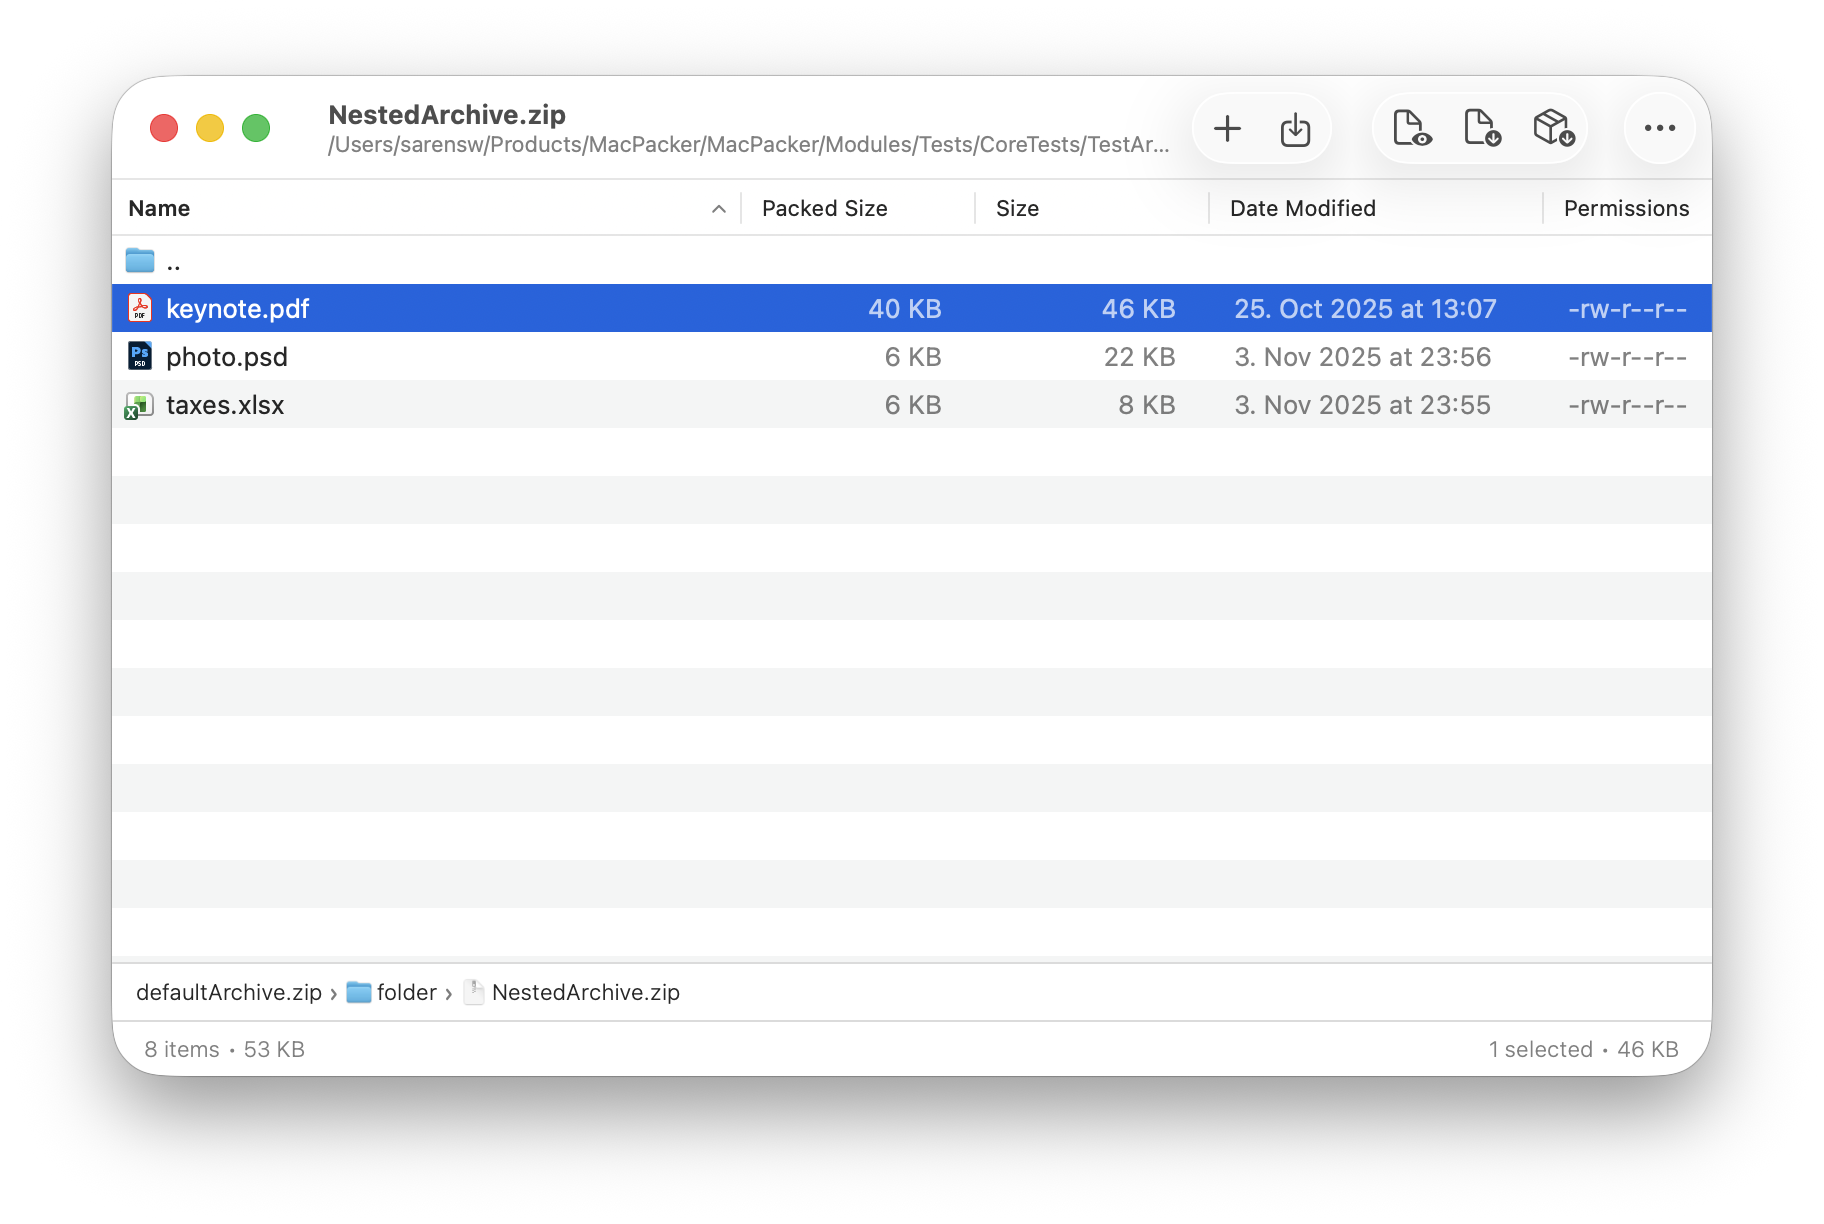
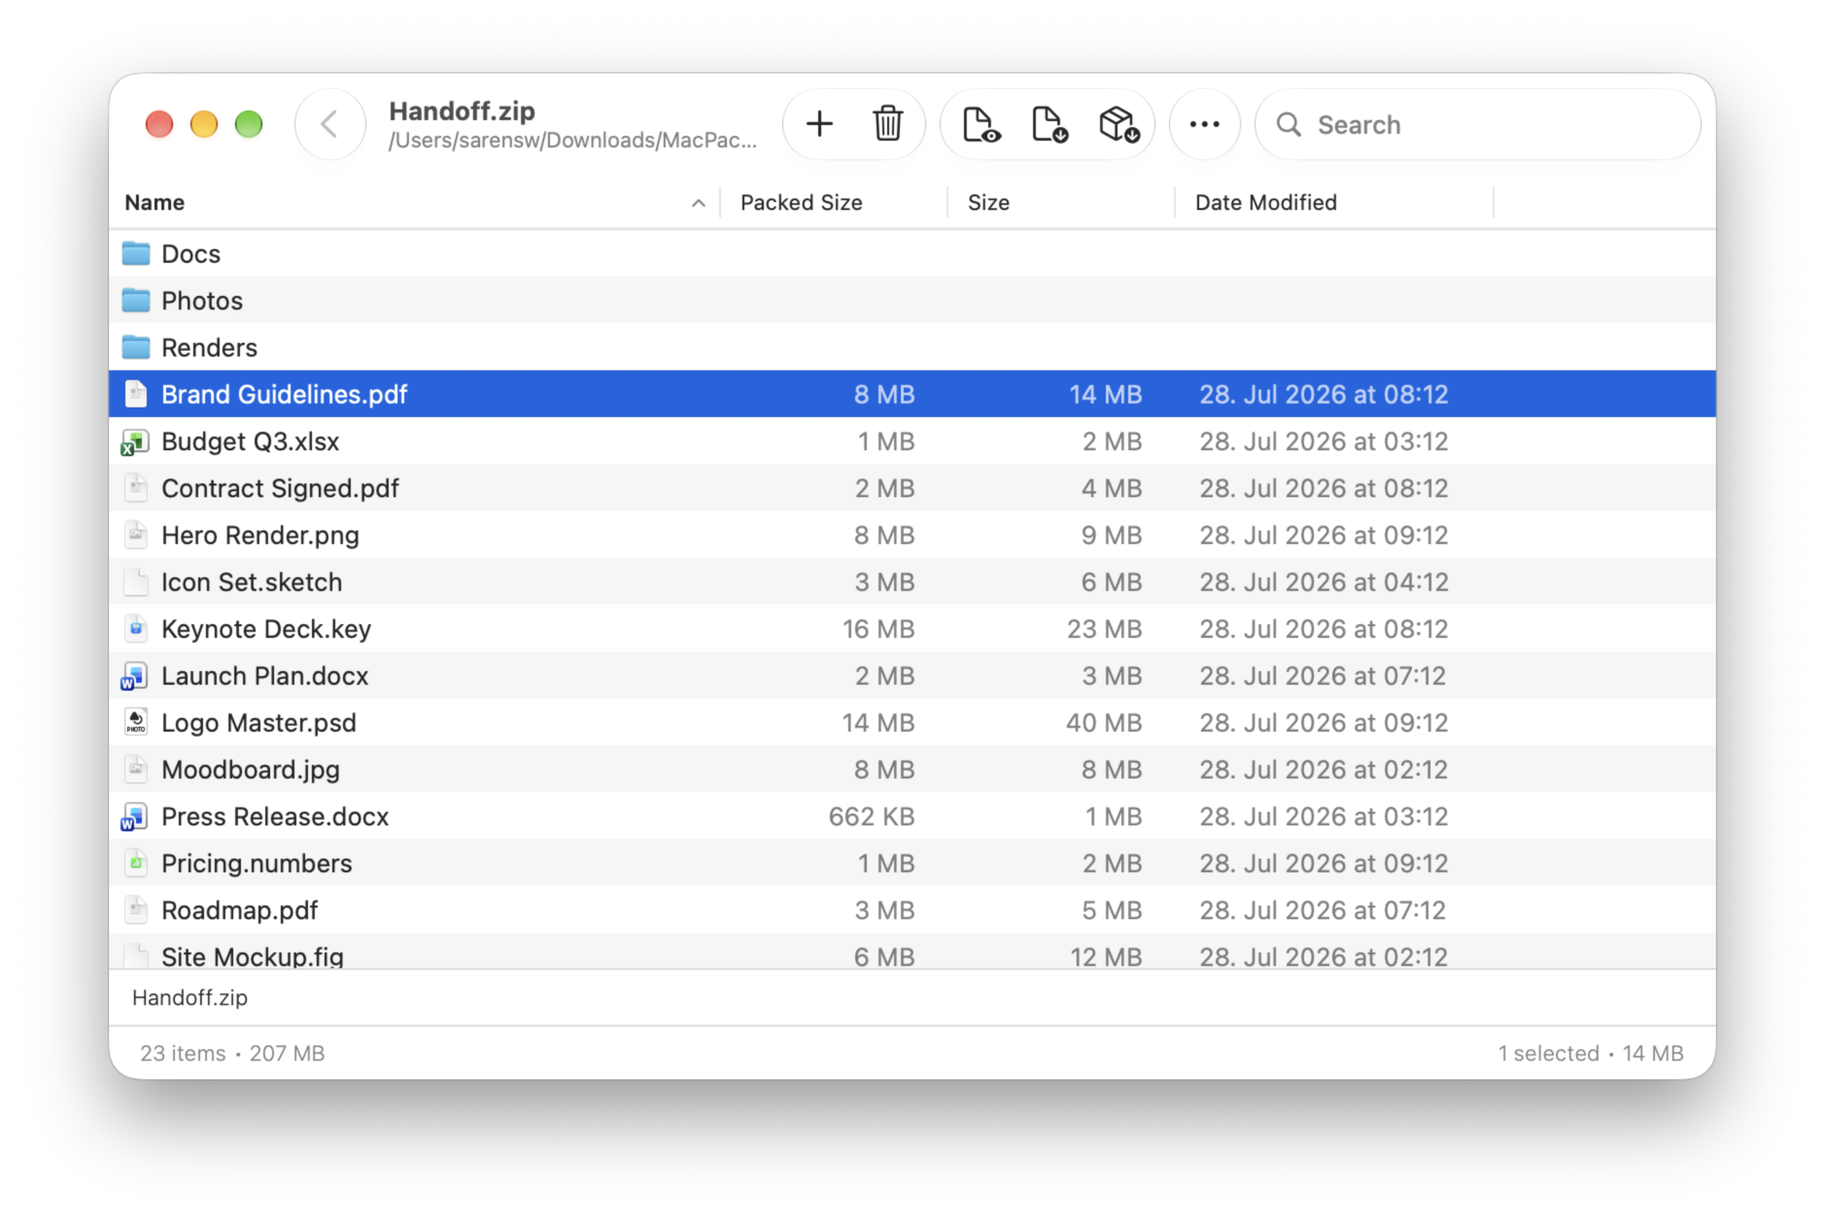
New link preview card per locale, and SEO fixes (#18)
* Replace the link preview with a card per locale

The old og.png was a bare screenshot of the old UI, with a development
path in the title bar, and the same English card served the Chinese pages.

- public/og.jpg (en) and public/og-zh.jpg (zh): icon, name, the home
  page's claim and lede, and the Handoff.zip window on the orange stage,
  laid out like the home page hero. JPEG, about 135 KB each.
- The cards are rendered from press-kit/og.beastproj with FrameBeast;
  CLAUDE.md says how to rebuild them.
- ogImage(locale) in lib/seo.ts picks the card for OpenGraph, Twitter and
  the JSON-LD image on every page.
- public/hero.png (the JSON-LD screenshot) is the new Handoff.zip capture
  from #16, so it no longer shows the development path either.

* Fix "a ISO" in the guide titles, link the pages in llms.txt

- Eight format guides were titled "How to Extract Files from a ISO / a
  NTFS / a XZ ..." in the title tag, the H1 and the Article JSON-LD.
  They now take "an" where the name is read out letter by letter.
- llms.txt listed its key pages as bare URLs. The llms.txt format wants
  markdown links in its lists, and Lighthouse's llms.txt check failed
  with "File does not appear to contain any links".

diff --git a/lib/llms.ts b/lib/llms.ts
@@ -74,17 +74,17 @@ ${formatLines}
 
 ## Key pages
 
-- Home (English): ${SITE_URL}/en
-- Home (Chinese): ${SITE_URL}/zh
-- Docs index: ${SITE_URL}/en/docs
-- Archiver comparison: ${SITE_URL}/en/compare (also /zh/compare) — MacPacker vs 7-Zip vs The Unarchiver vs Keka vs BetterZip across 69 formats and 9 capabilities, read/write per format
+- [Home (English)](${SITE_URL}/en)
+- [Home (Chinese)](${SITE_URL}/zh)
+- [Docs index](${SITE_URL}/en/docs)
+- [Archiver comparison](${SITE_URL}/en/compare): MacPacker vs 7-Zip vs The Unarchiver vs Keka vs BetterZip across 69 formats and 9 capabilities, read/write per format (also /zh/compare)
 - Head-to-head comparisons: ${SITE_URL}/en/compare/{slug} where slug is keka, the-unarchiver, betterzip or 7-zip — MacPacker against one app, narrowed to the formats at least one of the two handles
 - Per-format guides: ${SITE_URL}/en/docs/{slug} (e.g. /zip, /rar, /7z, /dmg, /iso)
-- Privacy policy: ${SITE_URL}/en/privacy
-- Press / media kit: ${SITE_URL}/en/press (also /zh/press) — boilerplate, fact sheet, brand assets, downloadable kit
-- Changelog: ${SITE_URL}/en/changelog
-- Live changelog source: https://macpacker-releases.s3.eu-central-1.amazonaws.com/Changelog.json
-- Sparkle appcast: https://macpacker-releases.s3.eu-central-1.amazonaws.com/appcast.xml
+- [Privacy policy](${SITE_URL}/en/privacy)
+- [Press / media kit](${SITE_URL}/en/press): boilerplate, fact sheet, brand assets, downloadable kit (also /zh/press)
+- [Changelog](${SITE_URL}/en/changelog)
+- [Live changelog source](https://macpacker-releases.s3.eu-central-1.amazonaws.com/Changelog.json)
+- [Sparkle appcast](https://macpacker-releases.s3.eu-central-1.amazonaws.com/appcast.xml)
 
 ## Languages
 

diff --git a/lib/formats.ts b/lib/formats.ts
@@ -46,20 +46,25 @@ export interface FormatEntry {
 
 // ─── HELPERS ───
 
+// "an ISO", "an NTFS": names read out letter by letter that start with a vowel sound.
+function article(name: string): string {
+  return /^(ARJ|ISO|LHA|LZ|NTFS|XZ)/.test(name) ? "an" : "a";
+}
+
 function archiveTitle(name: string): string {
-  return `How to Extract Files from a ${name} Archive on macOS`;
+  return `How to Extract Files from ${article(name)} ${name} Archive on macOS`;
 }
 
 function diskImageTitle(name: string): string {
-  return `How to Extract Files from a ${name} Disk Image on macOS`;
+  return `How to Extract Files from ${article(name)} ${name} Disk Image on macOS`;
 }
 
 function compressionTitle(name: string): string {
-  return `How to Extract Files from a ${name} Archive on macOS`;
+  return `How to Extract Files from ${article(name)} ${name} Archive on macOS`;
 }
 
 function installerTitle(name: string): string {
-  return `How to Extract Files from a ${name} Archive on macOS`;
+  return `How to Extract Files from ${article(name)} ${name} Archive on macOS`;
 }
 
 // ─── FORMAT REGISTRY ───
@@ -404,7 +409,7 @@ export const formats: FormatEntry[] = [
     ],
     faqs: [
       {
-        question: "How do I extract a .xz file on Mac?",
+        question: "How do I extract an .xz file on Mac?",
         answer:
           "Open Terminal and run: xz -d file.xz. For .tar.xz archives: tar xJf archive.tar.xz. Note the capital J flag for xz-compressed tar archives.",
       },

diff --git a/app/[locale]/layout.tsx b/app/[locale]/layout.tsx
@@ -3,7 +3,7 @@ import { Newsreader } from "next/font/google";
 import { notFound } from "next/navigation";
 import { isValidLocale, locales, getTranslations } from "@/lib/i18n";
 import type { Locale } from "@/lib/i18n";
-import { SITE_URL } from "@/lib/seo";
+import { SITE_URL, ogImage } from "@/lib/seo";
 import { getReleaseData } from "@/lib/release";
 import { formatCount } from "@/lib/format-chips";
 import { LANGUAGES } from "@/lib/languages";
@@ -78,20 +78,13 @@ export async function generateMetadata({
       locale: locale === "zh" ? "zh_CN" : "en_US",
       alternateLocale: locale === "zh" ? "en_US" : "zh_CN",
       url: `${SITE_URL}/${locale}`,
-      images: [
-        {
-          url: "/og.png",
-          width: 1200,
-          height: 630,
-          alt: "MacPacker — preview & extract any archive on macOS",
-        },
-      ],
+      images: [ogImage(locale)],
     },
     twitter: {
       card: "summary_large_image",
       title: t.meta.title,
       description: t.meta.description,
-      images: ["/og.png"],
+      images: [ogImage(locale)],
     },
     alternates: {
       canonical: `${SITE_URL}/${locale}`,
@@ -177,7 +170,7 @@ function JsonLd({
             "Open password-protected / encrypted archives",
             "Native SwiftUI interface, Apple Silicon native",
           ],
-    image: `${SITE_URL}/og.png`,
+    image: `${SITE_URL}${ogImage(locale).url}`,
     screenshot: {
       "@type": "ImageObject",
       url: `${SITE_URL}/hero.png`,

diff --git a/lib/seo.ts b/lib/seo.ts
@@ -14,13 +14,19 @@ export const SITE_URL = (
   process.env.NEXT_PUBLIC_SITE_URL ?? "https://macpacker.app"
 ).replace(/\/$/, "");
 
-/** Shared social-card image — a 1200×630 landscape card for summary_large_image. */
-const OG_IMAGE = {
-  url: "/og.png",
-  width: 1200,
-  height: 630,
-  alt: "MacPacker — preview & extract any archive on macOS",
-};
+/**
+ * The link-preview card, one per locale (1200×630, for summary_large_image).
+ * Rendered from press-kit/og.beastproj with FrameBeast, see CLAUDE.md.
+ */
+export function ogImage(locale: string) {
+  const zh = locale === "zh";
+  return {
+    url: zh ? "/og-zh.jpg" : "/og.jpg",
+    width: 1200,
+    height: 630,
+    alt: zh ? "MacPacker：macOS 的压缩包管理器" : "MacPacker, the archive manager for macOS",
+  };
+}
 
 /**
  * Build a consistent SEO metadata block for a localized route.
@@ -62,13 +68,13 @@ export function pageMetadata(opts: {
       locale: locale === "zh" ? "zh_CN" : "en_US",
       alternateLocale: locale === "zh" ? "en_US" : "zh_CN",
       url,
-      images: [OG_IMAGE],
+      images: [ogImage(locale)],
     },
     twitter: {
       card: "summary_large_image",
       title,
       description,
-      images: ["/og.png"],
+      images: [ogImage(locale)],
     },
   };
 }

diff --git a/__tests__/seo.test.ts b/__tests__/seo.test.ts
@@ -1,5 +1,7 @@
 import { describe, it, expect } from "vitest";
+import { existsSync } from "node:fs";
 import sitemap from "@/app/sitemap";
+import { ogImage, pageMetadata } from "@/lib/seo";
 import robots from "@/app/robots";
 import { locales } from "@/lib/i18n";
 import { getAllFormatSlugs } from "@/lib/formats";
@@ -59,6 +61,16 @@ describe("sitemap.ts", () => {
     for (const entry of entries) {
       expect(entry.changeFrequency).toBe("monthly");
     }
+  });
+});
+
+describe("link preview", () => {
+  it("gives every locale its own card, and the file exists", () => {
+    const urls = locales.map((l) => ogImage(l).url);
+    expect(new Set(urls).size).toBe(locales.length);
+    for (const url of urls) expect(existsSync(`public${url}`), url).toBe(true);
+    const og = pageMetadata({ locale: "zh", path: "/docs", title: "t", description: "d" }).openGraph;
+    expect(og?.images).toEqual([ogImage("zh")]);
   });
 });
 

diff --git a/app/[locale]/compare/page.tsx b/app/[locale]/compare/page.tsx
@@ -3,7 +3,7 @@ import type { Metadata } from "next";
 import { isValidLocale, locales, getTranslations } from "@/lib/i18n";
 import { getComparison, getCompetitorSlugs, getPairComparison } from "@/lib/compare";
 import { getReleaseData } from "@/lib/release";
-import { pageMetadata, SITE_URL } from "@/lib/seo";
+import { ogImage, pageMetadata, SITE_URL } from "@/lib/seo";
 import Header from "@/components/Header";
 import Footer from "@/components/Footer";
 import ComparisonView from "@/components/ComparisonView";
@@ -110,7 +110,7 @@ export default async function ComparePage({
       url: SITE_URL,
       logo: { "@type": "ImageObject", url: `${SITE_URL}/logo.png` },
     },
-    image: `${SITE_URL}/og.png`,
+    image: `${SITE_URL}${ogImage(locale).url}`,
     datePublished: COMPILED,
     dateModified: COMPILED,
     mainEntityOfPage: `${SITE_URL}/${locale}/compare`,

diff --git a/app/[locale]/compare/[slug]/page.tsx b/app/[locale]/compare/[slug]/page.tsx
@@ -3,7 +3,7 @@ import type { Metadata } from "next";
 import { isValidLocale, locales, getTranslations } from "@/lib/i18n";
 import { getCompetitorSlugs, getPairComparison } from "@/lib/compare";
 import { getReleaseData } from "@/lib/release";
-import { pageMetadata, SITE_URL } from "@/lib/seo";
+import { ogImage, pageMetadata, SITE_URL } from "@/lib/seo";
 import Header from "@/components/Header";
 import Footer from "@/components/Footer";
 import ComparisonView from "@/components/ComparisonView";
@@ -122,7 +122,7 @@ export default async function ComparePairPage({
       url: SITE_URL,
       logo: { "@type": "ImageObject", url: `${SITE_URL}/logo.png` },
     },
-    image: `${SITE_URL}/og.png`,
+    image: `${SITE_URL}${ogImage(locale).url}`,
     datePublished: COMPILED,
     dateModified: COMPILED,
     mainEntityOfPage: `${SITE_URL}/${locale}/compare/${slug}`,

diff --git a/app/[locale]/docs/[slug]/page.tsx b/app/[locale]/docs/[slug]/page.tsx
@@ -8,7 +8,7 @@ import {
   getAllFormatSlugs,
 } from "@/lib/formats";
 import { getReleaseData } from "@/lib/release";
-import { pageMetadata, SITE_URL } from "@/lib/seo";
+import { ogImage, pageMetadata, SITE_URL } from "@/lib/seo";
 import Header from "@/components/Header";
 import Footer from "@/components/Footer";
 import DownloadCard from "@/components/DownloadCard";
@@ -105,7 +105,7 @@ export default async function ArticlePage({
         url: `${baseUrl}/logo.png`,
       },
     },
-    image: `${baseUrl}/og.png`,
+    image: `${baseUrl}${ogImage(locale).url}`,
     datePublished: "2026-05-23",
     dateModified: "2026-05-23",
     mainEntityOfPage: `${baseUrl}/${locale}/docs/${slug}`,

diff --git a/__tests__/llms.test.ts b/__tests__/llms.test.ts
@@ -12,6 +12,8 @@ describe("llms.txt builders", () => {
     expect(txt).toContain(releaseFixture.latestDmgUrl);
     expect(txt).toContain(releaseFixture.latestZipUrl);
     expect(txt).toContain("https://macpacker.app/llms-full.txt");
+    // llmstxt.org file lists are markdown links; checkers reject a file without any
+    expect(txt).toContain(`- [Docs index](${SITE_URL}/en/docs)`);
   });
 
   it("llms-full.txt contains every format guide with its canonical URL", () => {

diff --git a/CLAUDE.md b/CLAUDE.md
@@ -36,6 +36,10 @@ those before non-trivial work.
 - **Home images.** `scripts/cutouts.py` cuts the window and its details out of
   `press-kit/assets/screenshots/` into `public/img/{en,zh}/`; re-run it after new
   screenshots.
+- **Link preview.** `public/og.jpg` and `public/og-zh.jpg` (1200×630, picked per
+  locale by `ogImage()` in `lib/seo.ts`) are rendered from the FrameBeast project
+  `press-kit/og.beastproj`: `framebeast build press-kit/og.beastproj --out <tmp>
+  --format jpeg`, then copy `en-US/og.jpg` and `zh-Hans/og.jpg` over them.
 - **Media kit.** `scripts/build-press-kit.mjs` generates the downloadable kit into
   `public/press/` (git-ignored) from the translations + `press-kit/assets/`. It runs
   on `predev`/`prebuild`, so it regenerates on every dev start and deploy.
